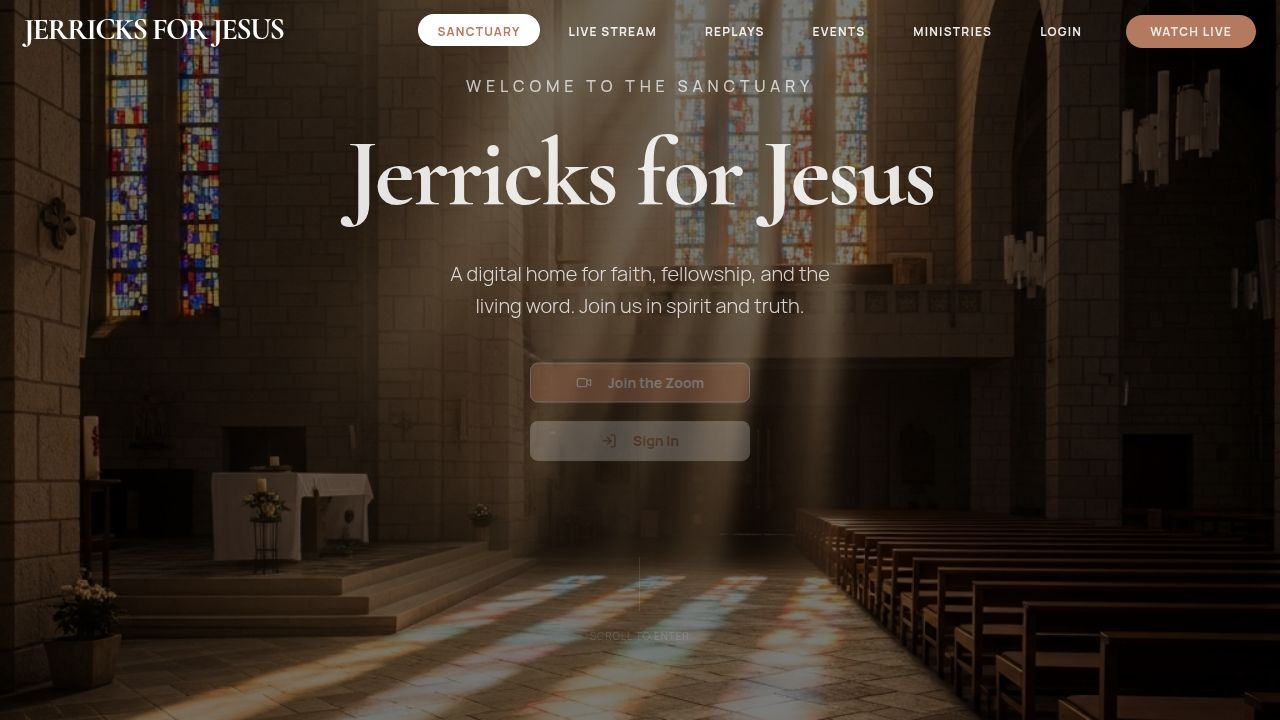
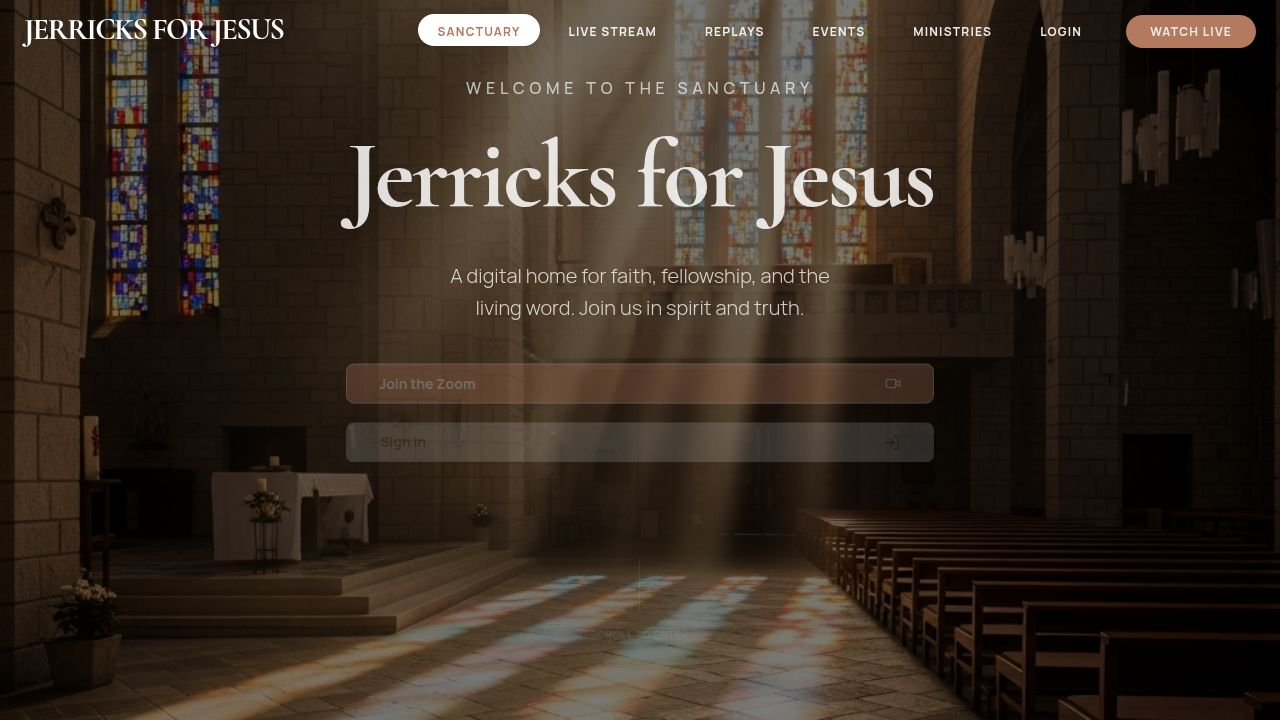
Add bottom margin to homepage buttons for better spacing
Add `mb-[10px]` to the button containers within the Hero component in `client/src/components/Hero.tsx`.

Replit-Commit-Author: Agent
Replit-Commit-Session-Id: 75396615-9395-49b2-b471-3c85e6c61d71
Replit-Commit-Checkpoint-Type: full_checkpoint
Replit-Commit-Event-Id: 99c6580b-a194-4fd3-be2c-4a9ad97eae30
Replit-Commit-Screenshot-Url: https://storage.googleapis.com/screenshot-production-us-central1/38b0b6c2-369f-4a55-bdde-b0b89249750f/75396615-9395-49b2-b471-3c85e6c61d71/6Id6Lf1

diff --git a/client/src/components/Hero.tsx b/client/src/components/Hero.tsx
@@ -112,7 +112,7 @@ export function Hero() {
             initial={{ opacity: 0, y: 20 }}
             animate={{ opacity: 1, y: 0 }}
             transition={{ duration: 0.8, delay: 0.6 }}
-            className="mt-8"
+            className="mt-8 mb-[10px]"
           >
             <Button 
               asChild
@@ -135,7 +135,7 @@ export function Hero() {
             initial={{ opacity: 0, y: 20 }}
             animate={{ opacity: 1, y: 0 }}
             transition={{ duration: 0.8, delay: 0.8 }}
-            className="mt-4"
+            className="mt-4 mb-[10px]"
           >
             <Button 
               asChild
@@ -158,7 +158,7 @@ export function Hero() {
             initial={{ opacity: 0, y: 20 }}
             animate={{ opacity: 1, y: 0 }}
             transition={{ duration: 0.8, delay: 1.0 }}
-            className="mt-4"
+            className="mt-4 mb-[10px]"
           >
             <Button 
               size="lg" 
